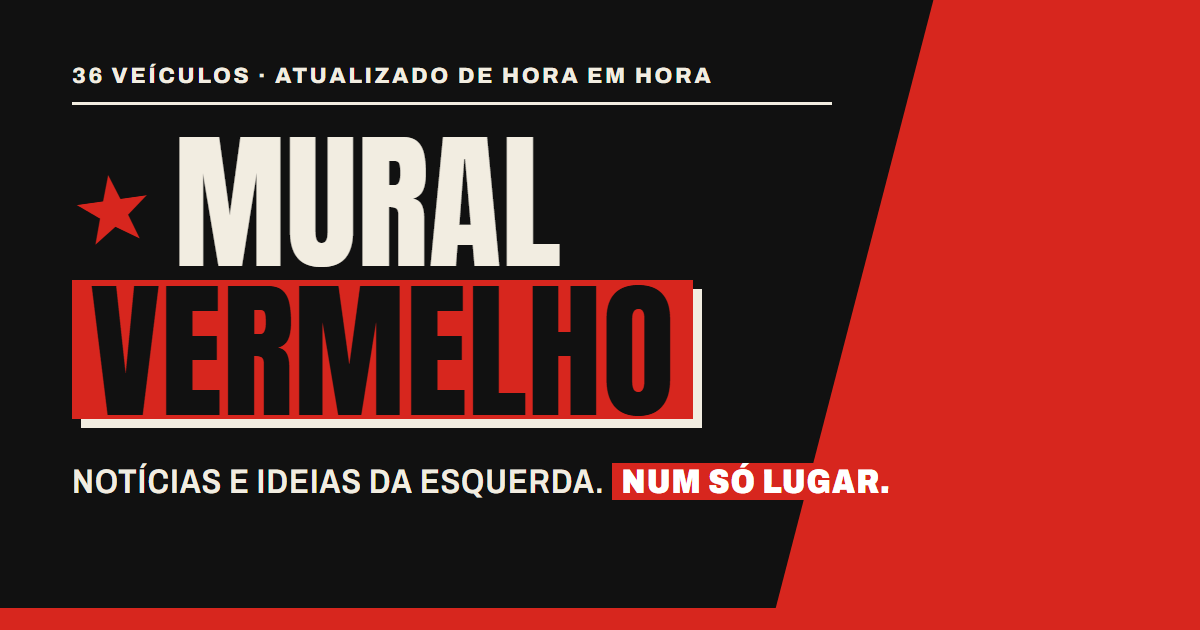
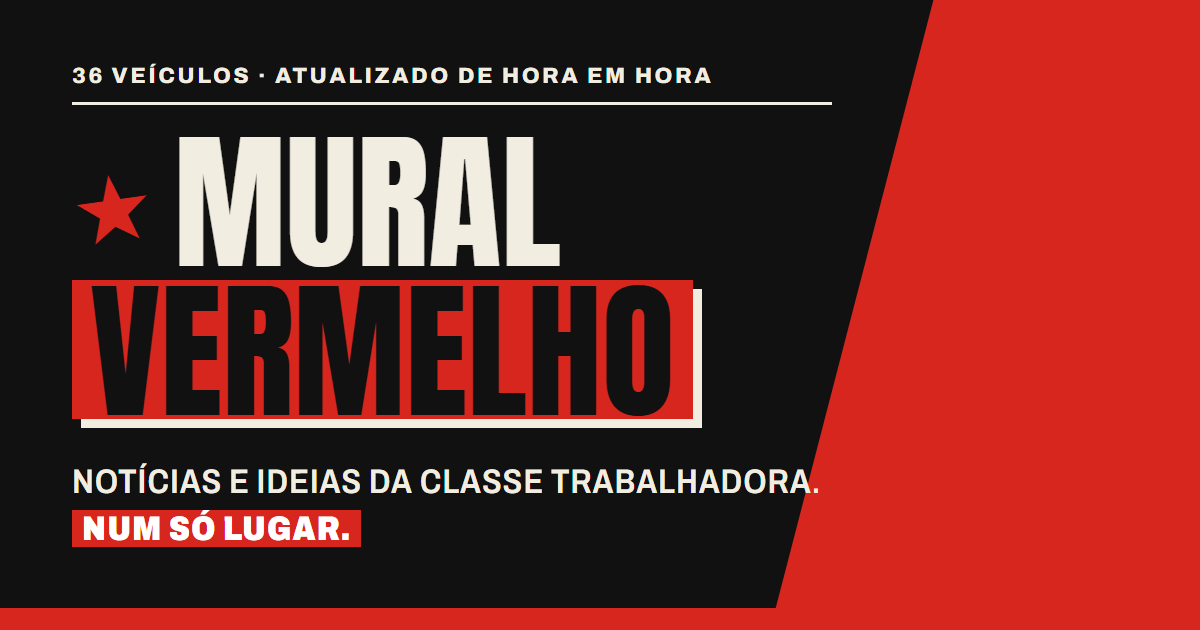
Autores corretos nos ensaios e novo slogan: classe trabalhadora
Muitos feeds informam o editor que publicou, não o autor. Agora o
autor vem do "Por Fulano" no texto, da página do artigo ou da nota
biográfica, conforme o veículo; créditos genéricos ficam ocultos.

Changed region(s): [[0.3392, 0.7238, 0.74, 0.8143], [0.0617, 0.7841, 0.3083, 0.8746]]

diff --git a/site/index.html b/site/index.html
@@ -3,7 +3,7 @@
 <head>
   <meta charset="utf-8">
   <meta name="viewport" content="width=device-width, initial-scale=1">
-  <title>Mural Vermelho · notícias e ideias da esquerda</title>
+  <title>Mural Vermelho · notícias e ideias da classe trabalhadora</title>
   <meta name="description" content="Agregador de notícias e textos de esquerda em português: dezenas de veículos independentes e populares num só lugar, atualizado de hora em hora.">
   <link rel="canonical" href="https://muralvermelho.github.io/">
   <!-- Prévia ao compartilhar (WhatsApp, Telegram, Facebook, X, Bluesky) -->
@@ -11,12 +11,12 @@
   <meta property="og:site_name" content="Mural Vermelho">
   <meta property="og:locale" content="pt_BR">
   <meta property="og:url" content="https://muralvermelho.github.io/">
-  <meta property="og:title" content="Mural Vermelho · notícias e ideias da esquerda">
+  <meta property="og:title" content="Mural Vermelho · notícias e ideias da classe trabalhadora">
   <meta property="og:description" content="Dezenas de veículos de esquerda num só lugar, atualizado de hora em hora.">
   <meta property="og:image" content="https://muralvermelho.github.io/og.png">
   <meta property="og:image:width" content="1200">
   <meta property="og:image:height" content="630">
-  <meta property="og:image:alt" content="Mural Vermelho: notícias e ideias da esquerda. Num só lugar.">
+  <meta property="og:image:alt" content="Mural Vermelho: notícias e ideias da classe trabalhadora. Num só lugar.">
   <meta name="twitter:card" content="summary_large_image">
   <meta name="twitter:image" content="https://muralvermelho.github.io/og.png">
   <!-- App instalável -->
@@ -43,7 +43,7 @@
         <span id="updated" aria-live="polite">carregando…</span>
       </div>
       <h1 class="logo"><a href="#/noticias"><span class="logo-star" aria-hidden="true">★</span><span>Mural</span> <span class="logo-v">Vermelho</span></a></h1>
-      <p class="tagline">Notícias e ideias da esquerda. <strong>Num só lugar.</strong></p>
+      <p class="tagline">Notícias e ideias da classe trabalhadora. <strong>Num só lugar.</strong></p>
       <button id="install" class="install" hidden>★ Instalar o app</button>
     </div>
   </header>
